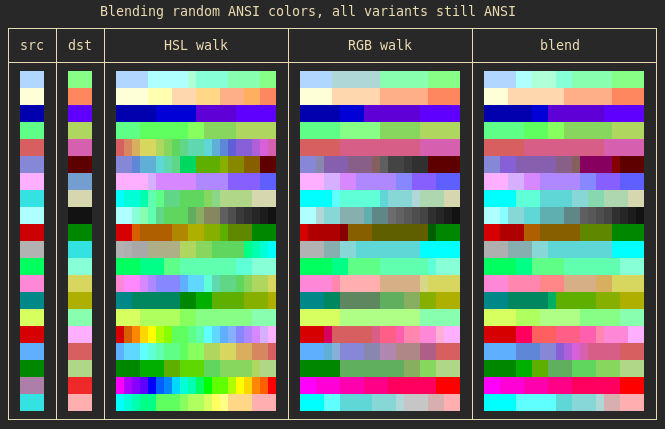
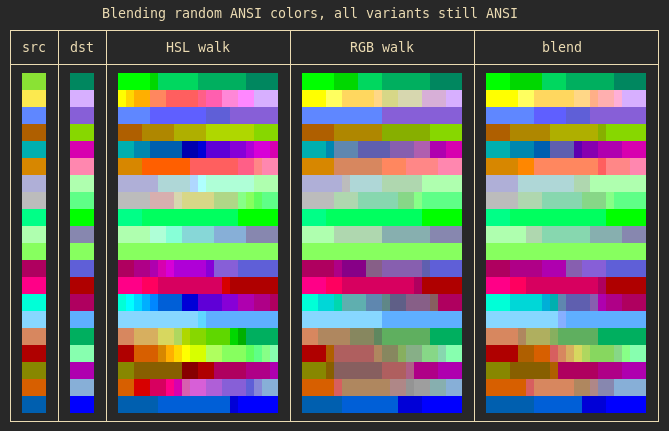
hsl mix now always takes the shortest path on hue
No more full rainbows...

diff --git a/src/hsl.rs b/src/hsl.rs
@@ -33,7 +33,19 @@ impl Hsl {
     }
     pub fn mix(c1: Self, w1: f32, c2: Self, w2: f32) -> Self {
         debug_assert!(w1 + w2 > 0.0);
-        let h = (w1*c1.h + w2*c2.h) / (w1+w2);
+        let h = if (c1.h - c2.h).abs() > 180.0 {
+            // the shortest path involve crossing Tau
+            let (h1, h2) = if c1.h < c2.h {
+                (c1.h + 360.0, c2.h)
+            } else {
+                (c1.h, c2.h + 360.0)
+            };
+            ((w1*h1 + w2*h2) / (w1+w2)) % 360.0
+        } else {
+            // direct way
+            (w1*c1.h + w2*c2.h) / (w1+w2)
+        };
+        //let h = (w1*c1.h + w2*c2.h) / (w1+w2);
         let s = (w1*c1.s + w2*c2.s) / (w1+w2);
         let l = (w1*c1.l + w2*c2.l) / (w1+w2);
         Self { h, s, l }
